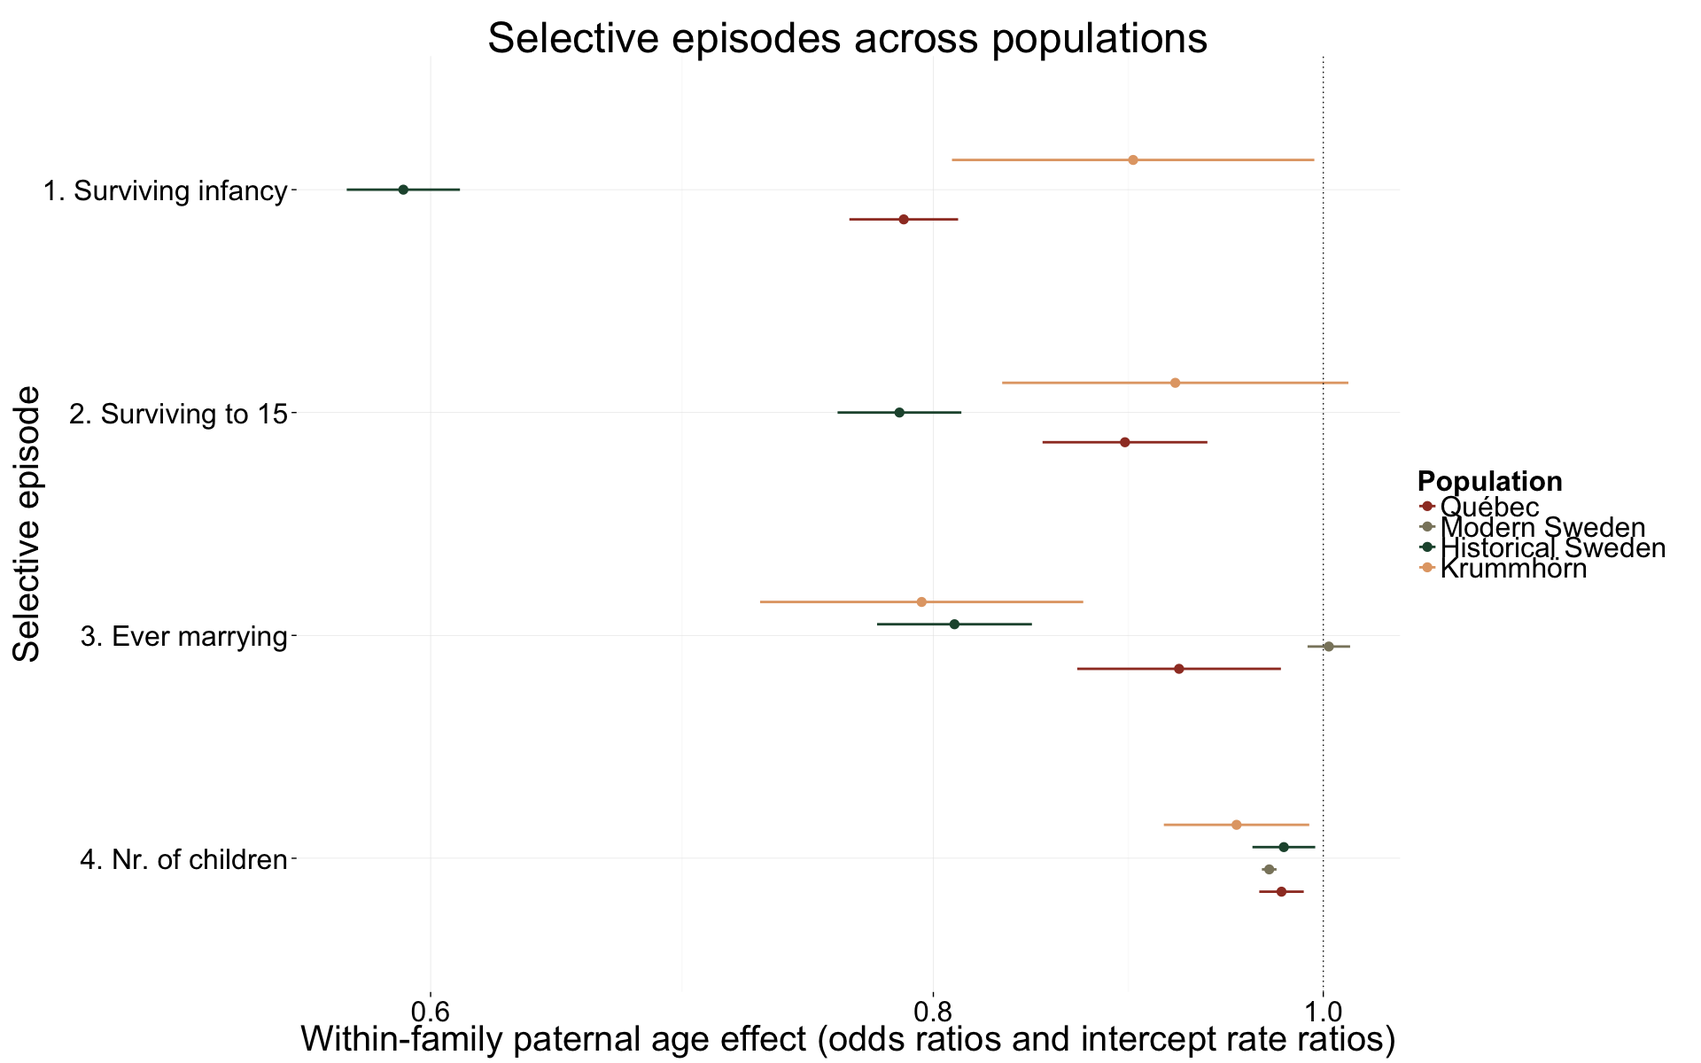
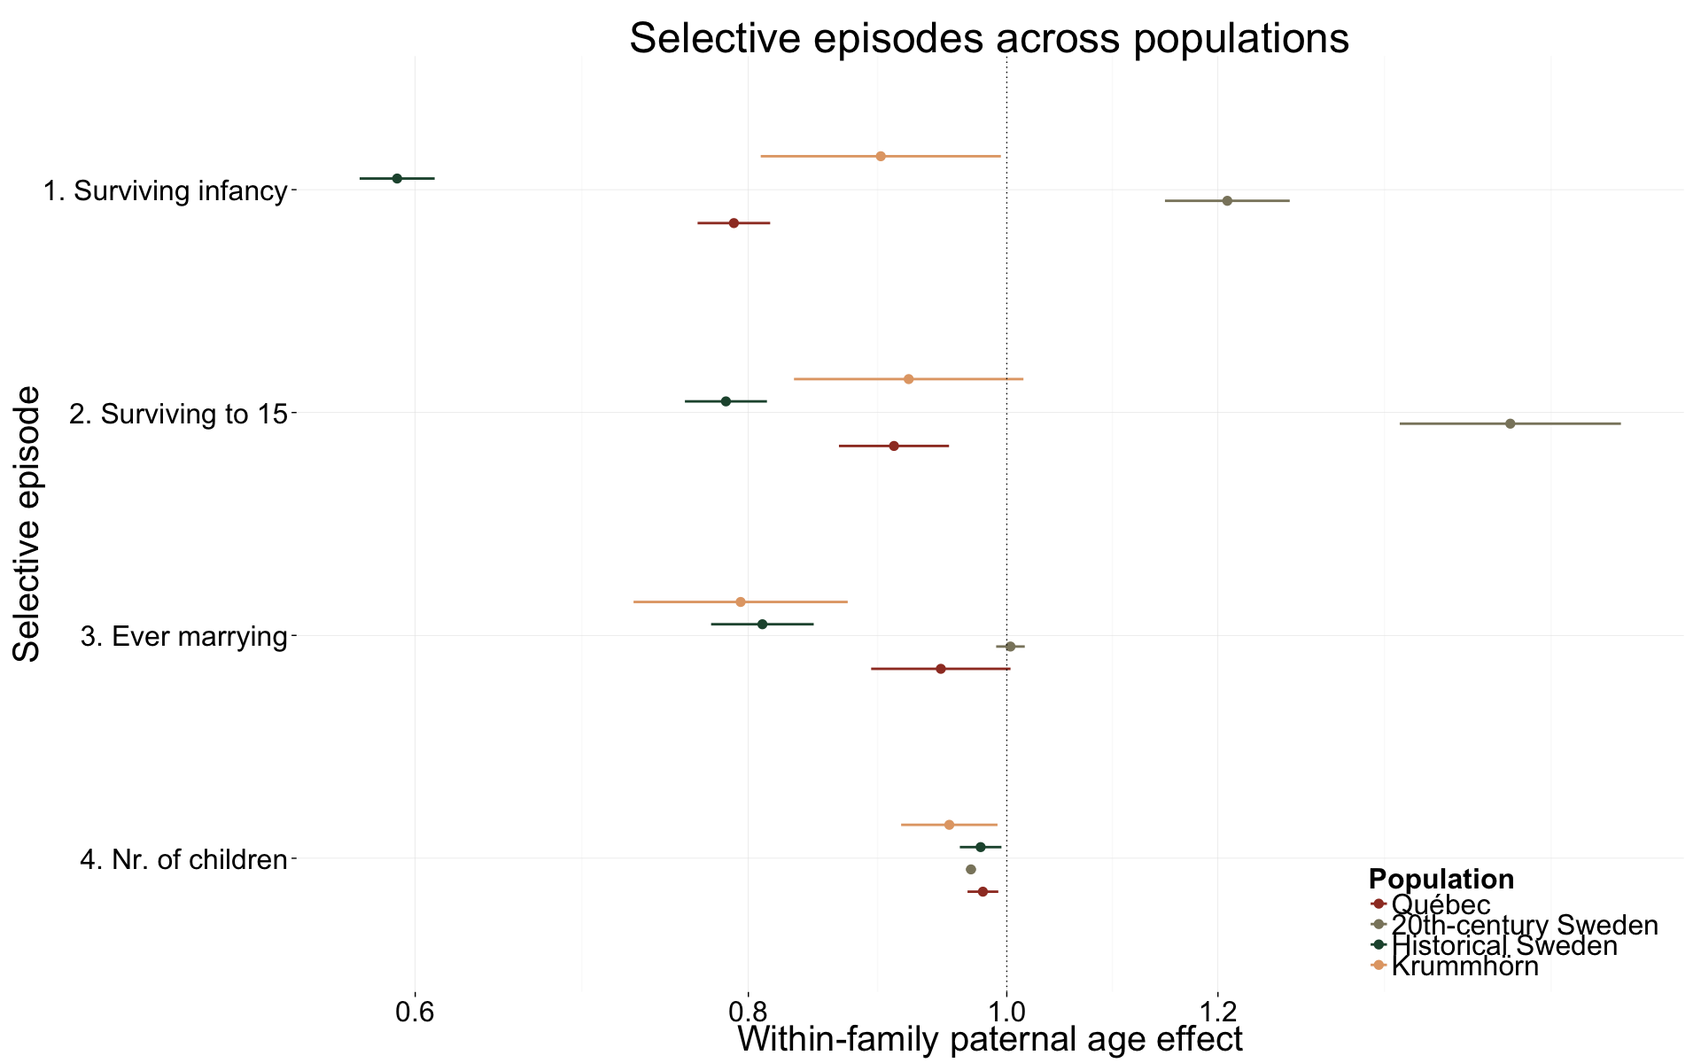
update comparison of linear episodes

diff --git a/4_compare_all_episodes_linear.html b/4_compare_all_episodes_linear.html
@@ -96,18 +96,17 @@ opts_chunk$<span class="kw">set</span>(<span class="dt">warning=</span><span cla
 <div id="all-episodes-few-controls" class="section level2">
 <h2>All episodes (few controls)</h2>
 <p>We control for birth.cohort (birth years in five equally large bins), male sex and region.</p>
-<p>We load the coefficients estimated in the sibling comparisons with extensive controls for the Krummhörn, Québec, historical and modern Sweden and compare them.</p>
+<p>We load the coefficients estimated in the sibling comparisons with extensive controls for the Krummhörn, Québec, historical and 20th-century Sweden and compare them.</p>
 <pre class="sourceCode r"><code class="sourceCode r">krmh_coefs =<span class="st"> </span><span class="kw">rbindlist</span>(<span class="kw">lapply</span>(<span class="kw">local</span>({<span class="kw">load</span>(<span class="st">&quot;coefs/krmh_main_effects_coefs.rdata&quot;</span>);<span class="kw">environment</span>()}),<span class="dt">FUN=</span>data.table))
 rpqa_coefs =<span class="st"> </span><span class="kw">rbindlist</span>(<span class="kw">lapply</span>(<span class="kw">local</span>({<span class="kw">load</span>(<span class="st">&quot;coefs/rpqa_main_effects_coefs.rdata&quot;</span>);<span class="kw">environment</span>()}),<span class="dt">FUN=</span>data.table))
 ddb_coefs =<span class="st"> </span><span class="kw">rbindlist</span>(<span class="kw">lapply</span>(<span class="kw">local</span>({<span class="kw">load</span>(<span class="st">&quot;coefs/ddb_main_effects_coefs.rdata&quot;</span>);<span class="kw">environment</span>()}),<span class="dt">FUN=</span>data.table))
 swed_coefs =<span class="st"> </span><span class="kw">rbindlist</span>(<span class="kw">lapply</span>(<span class="kw">local</span>({<span class="kw">load</span>(<span class="st">&quot;coefs/swed_main_effects_coefs.rdata&quot;</span>);<span class="kw">rm</span>(Children_all_coefs);<span class="kw">environment</span>()}),<span class="dt">FUN=</span>data.table))
 
-
 coefs =<span class="st"> </span><span class="kw">merge_coefs</span>(
     Krummhö<span class="dt">rn =</span> (krmh_coefs), 
     Qué<span class="dt">bec =</span> (rpqa_coefs), 
     <span class="st">`</span><span class="dt">Historical Sweden</span><span class="st">`</span> =<span class="st"> </span>(ddb_coefs),
-    <span class="st">`</span><span class="dt">Modern Sweden</span><span class="st">`</span> =<span class="st"> </span>(swed_coefs)
+    <span class="st">`</span><span class="dt">20th-century Sweden</span><span class="st">`</span> =<span class="st"> </span>(swed_coefs)
 )
 coefs[, Outcome :<span class="er">=</span><span class="st"> </span>car::<span class="kw">Recode</span>(Outcome, <span class="st">&quot;</span>
 <span class="st">    &#39;survive1y&#39;=&#39;1. Surviving infancy&#39;;</span>
@@ -118,17 +117,19 @@ coefs[, Outcome :<span class="er">=</span><span class="st"> </span>car::<span cl
 <span class="st">    &quot;</span>)]
 coefs[, Outcome :<span class="er">=</span><span class="st"> </span><span class="kw">factor</span>(Outcome, <span class="dt">levels =</span> <span class="kw">rev</span>(<span class="kw">sort</span>(<span class="kw">unique</span>(coefs$Outcome))))]
 
-coefs$Population =<span class="st"> </span><span class="kw">factor</span>(coefs$Population, <span class="kw">c</span>(<span class="st">&quot;Québec&quot;</span>,<span class="st">&quot;Modern Sweden&quot;</span>,<span class="st">&quot;Historical Sweden&quot;</span>,<span class="st">&quot;Krummhörn&quot;</span>))
+coefs$Population =<span class="st"> </span><span class="kw">factor</span>(coefs$Population, <span class="kw">c</span>(<span class="st">&quot;Québec&quot;</span>,<span class="st">&quot;20th-century Sweden&quot;</span>,<span class="st">&quot;Historical Sweden&quot;</span>,<span class="st">&quot;Krummhörn&quot;</span>))
 selective_episodes_comp =<span class="st"> </span><span class="kw">ggplot</span>(coefs[Coefficient ==<span class="st"> &quot;paternalage.diff&quot;</span> &amp;<span class="st"> </span>!<span class="kw">is.na</span>(Outcome),], 
                  <span class="kw">aes</span>(<span class="dt">colour =</span> Population, <span class="dt">x =</span> Outcome, <span class="dt">y =</span> Estimate, <span class="dt">ymin =</span> Lower, <span class="dt">ymax =</span> Upper, <span class="dt">group =</span> Population)) +
 <span class="st">        </span><span class="kw">coord_flip</span>() +
 <span class="st">        </span><span class="kw">scale_x_discrete</span>(<span class="st">&quot;Selective episode&quot;</span>) +
-<span class="st">        </span><span class="kw">scale_y_log10</span>(<span class="st">&quot;Within-family paternal age effect (odds ratios and intercept rate ratios)&quot;</span>, <span class="dt">breaks =</span> <span class="kw">c</span>(<span class="fl">0.4</span>,<span class="fl">0.6</span>,<span class="fl">0.8</span>,<span class="dv">1</span>,<span class="fl">1.2</span>))+
+<span class="st">        </span><span class="kw">scale_y_log10</span>(<span class="st">&quot;Within-family paternal age effect&quot;</span>, <span class="dt">breaks =</span> <span class="kw">c</span>(<span class="fl">0.4</span>,<span class="fl">0.6</span>,<span class="fl">0.8</span>,<span class="dv">1</span>,<span class="fl">1.2</span>))+
 <span class="st">        </span><span class="kw">geom_pointrange</span>(<span class="dt">position =</span> <span class="kw">position_dodge</span>(<span class="dt">width =</span> <span class="fl">0.4</span>), <span class="dt">size =</span> <span class="dv">1</span>) +
 <span class="st">        </span>pop_fill +
 <span class="st">        </span>pop_colour +
 <span class="st">        </span><span class="kw">geom_hline</span>(<span class="dt">y =</span> <span class="dv">1</span>, <span class="dt">colour =</span> <span class="st">&quot;black&quot;</span>, <span class="dt">linetype =</span> <span class="st">&quot;dotted&quot;</span>) +<span class="st"> </span>
 <span class="st">        </span>analysis_theme +
+<span class="st">        </span><span class="kw">theme</span>(<span class="dt">legend.position =</span> <span class="kw">c</span>(<span class="dv">1</span>,<span class="dv">0</span>),
+                <span class="dt">legend.justification =</span> <span class="kw">c</span>(<span class="dv">1</span>,<span class="dv">0</span>)) +
 <span class="st">        </span><span class="kw">ggtitle</span>(<span class="st">&quot;Selective episodes across populations&quot;</span>)
 selective_episodes_comp</code></pre>
 <p><img src="4_compare_all_episodes_linear_files/figure-html/few-1.png" title="" alt="" width="1440px" height="900px" /></p>
@@ -136,17 +137,17 @@ selective_episodes_comp</code></pre>
 <div id="all-episodes-many-controls" class="section level2">
 <h2>All episodes (many controls)</h2>
 <p>We control for birth.cohort (birth years in five equally large bins), male sex and region.<br />Additionally, we control for paternal and maternal loss (whether either parent died within 5 years of the birth), for maternal age (bins of 14-20, 20-35 and 35-50), and the total number of siblings (constant for all siblings).</p>
-<p>We load the coefficients estimated in the sibling comparisons with extensive controls for the Krummhörn, Québec, historical and modern Sweden and compare them.</p>
+<p>We load the coefficients estimated in the sibling comparisons with extensive controls for the Krummhörn, Québec, historical and 20th-century Sweden and compare them.</p>
 <pre class="sourceCode r"><code class="sourceCode r">krmh_coefs_ctrl =<span class="st"> </span><span class="kw">rbindlist</span>(<span class="kw">lapply</span>(<span class="kw">local</span>({<span class="kw">load</span>(<span class="st">&quot;coefs/krmh_main_controls_coefs.rdata&quot;</span>);<span class="kw">environment</span>()}),<span class="dt">FUN=</span>data.table))
 rpqa_coefs_ctrl =<span class="st"> </span><span class="kw">rbindlist</span>(<span class="kw">lapply</span>(<span class="kw">local</span>({<span class="kw">load</span>(<span class="st">&quot;coefs/rpqa_main_controls_coefs.rdata&quot;</span>);<span class="kw">environment</span>()}),<span class="dt">FUN=</span>data.table))
 ddb_coefs_ctrl =<span class="st"> </span><span class="kw">rbindlist</span>(<span class="kw">lapply</span>(<span class="kw">local</span>({<span class="kw">load</span>(<span class="st">&quot;coefs/ddb_main_controls_coefs.rdata&quot;</span>);<span class="kw">environment</span>()}),<span class="dt">FUN=</span>data.table))
-swed_coefs_ctrl =<span class="st"> </span><span class="kw">rbindlist</span>(<span class="kw">lapply</span>(<span class="kw">local</span>({<span class="kw">load</span>(<span class="st">&quot;coefs/swed_main_controls_coefs.rdata&quot;</span>);<span class="kw">rm</span>(Survive_reproductive_coefs,Children_all_coefs);<span class="kw">environment</span>()}),<span class="dt">FUN=</span>data.table))
+swed_coefs_ctrl =<span class="st"> </span><span class="kw">rbindlist</span>(<span class="kw">lapply</span>(<span class="kw">local</span>({<span class="kw">load</span>(<span class="st">&quot;coefs/swed_main_controls_coefs.rdata&quot;</span>);<span class="kw">rm</span>(Children_all_coefs);<span class="kw">environment</span>()}),<span class="dt">FUN=</span>data.table))
 
 coefs_ctrl =<span class="st"> </span><span class="kw">merge_coefs</span>(
     Krummhö<span class="dt">rn =</span> krmh_coefs_ctrl, 
     Qué<span class="dt">bec =</span> rpqa_coefs_ctrl, 
     <span class="st">`</span><span class="dt">Historical Sweden</span><span class="st">`</span> =<span class="st"> </span>ddb_coefs_ctrl,
-    <span class="st">`</span><span class="dt">Modern Sweden</span><span class="st">`</span> =<span class="st"> </span>swed_coefs_ctrl
+    <span class="st">`</span><span class="dt">20th-century Sweden</span><span class="st">`</span> =<span class="st"> </span>swed_coefs_ctrl
 )
 coefs_ctrl[, Outcome :<span class="er">=</span><span class="st"> </span>car::<span class="kw">Recode</span>(Outcome, <span class="st">&quot;</span>
 <span class="st">    &#39;survive1y&#39;=&#39;1. Surviving infancy&#39;;</span>
@@ -157,17 +158,19 @@ coefs_ctrl[, Outcome :<span class="er">=</span><span class="st"> </span>car::<sp
 <span class="st">    &quot;</span>)]
 coefs_ctrl[, Outcome :<span class="er">=</span><span class="st"> </span><span class="kw">factor</span>(Outcome, <span class="dt">levels =</span> <span class="kw">rev</span>(<span class="kw">sort</span>(<span class="kw">unique</span>(coefs_ctrl$Outcome))))]
 
-coefs_ctrl$Population =<span class="st"> </span><span class="kw">factor</span>(coefs_ctrl$Population, <span class="kw">c</span>(<span class="st">&quot;Québec&quot;</span>,<span class="st">&quot;Modern Sweden&quot;</span>,<span class="st">&quot;Historical Sweden&quot;</span>,<span class="st">&quot;Krummhörn&quot;</span>))
+coefs_ctrl$Population =<span class="st"> </span><span class="kw">factor</span>(coefs_ctrl$Population, <span class="kw">c</span>(<span class="st">&quot;Québec&quot;</span>,<span class="st">&quot;20th-century Sweden&quot;</span>,<span class="st">&quot;Historical Sweden&quot;</span>,<span class="st">&quot;Krummhörn&quot;</span>))
 selective_episodes_comp_ctrl =<span class="st"> </span><span class="kw">ggplot</span>(coefs_ctrl[Coefficient ==<span class="st"> &quot;paternalage.diff&quot;</span> &amp;<span class="st"> </span>!<span class="kw">is.na</span>(Outcome),], 
                  <span class="kw">aes</span>(<span class="dt">colour =</span> Population, <span class="dt">x =</span> Outcome, <span class="dt">y =</span> Estimate, <span class="dt">ymin =</span> Lower, <span class="dt">ymax =</span> Upper, <span class="dt">group =</span> Population)) +
 <span class="st">        </span><span class="kw">coord_flip</span>() +
 <span class="st">        </span><span class="kw">scale_x_discrete</span>(<span class="st">&quot;Selective episode&quot;</span>) +
-<span class="st">        </span><span class="kw">scale_y_log10</span>(<span class="st">&quot;Within-family paternal age effect (odds ratios and intercept rate ratios)&quot;</span>, <span class="dt">breaks =</span> <span class="kw">c</span>(<span class="fl">0.4</span>,<span class="fl">0.6</span>,<span class="fl">0.8</span>,<span class="dv">1</span>,<span class="fl">1.2</span>))+
+<span class="st">        </span><span class="kw">scale_y_log10</span>(<span class="st">&quot;Within-family paternal age effect&quot;</span>, <span class="dt">breaks =</span> <span class="kw">c</span>(<span class="fl">0.4</span>,<span class="fl">0.6</span>,<span class="fl">0.8</span>,<span class="dv">1</span>,<span class="fl">1.2</span>))+
 <span class="st">        </span><span class="kw">geom_pointrange</span>(<span class="dt">position =</span> <span class="kw">position_dodge</span>(<span class="dt">width =</span> <span class="fl">0.4</span>), <span class="dt">size =</span> <span class="dv">1</span>) +
 <span class="st">        </span>pop_fill +
 <span class="st">        </span>pop_colour +
 <span class="st">        </span><span class="kw">geom_hline</span>(<span class="dt">y =</span> <span class="dv">1</span>, <span class="dt">colour =</span> <span class="st">&quot;black&quot;</span>, <span class="dt">linetype =</span> <span class="st">&quot;dotted&quot;</span>) +<span class="st"> </span>
 <span class="st">        </span>analysis_theme +
+<span class="st">        </span><span class="kw">theme</span>(<span class="dt">legend.position =</span> <span class="kw">c</span>(<span class="dv">1</span>,<span class="dv">0</span>),
+            <span class="dt">legend.justification =</span> <span class="kw">c</span>(<span class="dv">1</span>,<span class="dv">0</span>)) +
 <span class="st">        </span><span class="kw">ggtitle</span>(<span class="st">&quot;Selective episodes across populations&quot;</span>)
 selective_episodes_comp_ctrl</code></pre>
 <p><img src="4_compare_all_episodes_linear_files/figure-html/many_cont-1.png" title="" alt="" width="1440px" height="900px" /></p>
@@ -181,12 +184,14 @@ selective_episodes_comp_uctrl_ctrl =<span class="st"> </span><span class="kw">gg
                  <span class="kw">aes</span>(<span class="dt">colour =</span> Population, <span class="dt">x =</span> Outcome, <span class="dt">y =</span> Estimate, <span class="dt">shape =</span> Controls, <span class="dt">linetype =</span> Controls, <span class="dt">ymin =</span> Lower, <span class="dt">ymax =</span> Upper, <span class="dt">group =</span> <span class="kw">interaction</span>(Controls,Population))) +
 <span class="st">        </span><span class="kw">coord_flip</span>() +
 <span class="st">        </span><span class="kw">scale_x_discrete</span>(<span class="st">&quot;Selective episode&quot;</span>) +
-<span class="st">        </span><span class="kw">scale_y_log10</span>(<span class="st">&quot;Within-family paternal age effect (odds ratios and intercept rate ratios)&quot;</span>, <span class="dt">breaks =</span> <span class="kw">c</span>(<span class="fl">0.4</span>,<span class="fl">0.6</span>,<span class="fl">0.8</span>,<span class="dv">1</span>,<span class="fl">1.2</span>))+
+<span class="st">        </span><span class="kw">scale_y_log10</span>(<span class="st">&quot;Within-family paternal age effect&quot;</span>, <span class="dt">breaks =</span> <span class="kw">c</span>(<span class="fl">0.4</span>,<span class="fl">0.6</span>,<span class="fl">0.8</span>,<span class="dv">1</span>,<span class="fl">1.2</span>))+
 <span class="st">        </span><span class="kw">geom_pointrange</span>(<span class="dt">position =</span> <span class="kw">position_dodge</span>(<span class="dt">width =</span> <span class="fl">0.4</span>), <span class="dt">size =</span> <span class="dv">1</span>) +
 <span class="st">        </span>pop_fill +
 <span class="st">        </span>pop_colour +
 <span class="st">        </span><span class="kw">geom_hline</span>(<span class="dt">y =</span> <span class="dv">1</span>, <span class="dt">colour =</span> <span class="st">&quot;black&quot;</span>, <span class="dt">linetype =</span> <span class="st">&quot;dotted&quot;</span>) +<span class="st"> </span>
 <span class="st">        </span>analysis_theme +
+<span class="st">        </span><span class="kw">theme</span>(<span class="dt">legend.position =</span> <span class="kw">c</span>(<span class="dv">1</span>,<span class="dv">0</span>),
+                <span class="dt">legend.justification =</span> <span class="kw">c</span>(<span class="dv">1</span>,<span class="dv">0</span>)) +
 <span class="st">        </span><span class="kw">ggtitle</span>(<span class="st">&quot;Selective episodes across populations&quot;</span>)
 selective_episodes_comp_uctrl_ctrl </code></pre>
 <p><img src="4_compare_all_episodes_linear_files/figure-html/crtl_uctrl-1.png" title="" alt="" width="1440px" height="900px" /></p>
@@ -202,7 +207,7 @@ coefs_op =<span class="st"> </span><span class="kw">merge_coefs</span>(
     Krummhö<span class="dt">rn =</span> krmh_coefs_op, 
     Qué<span class="dt">bec =</span> rpqa_coefs_op, 
     <span class="st">`</span><span class="dt">Historical Sweden</span><span class="st">`</span> =<span class="st"> </span>ddb_coefs_op,
-    <span class="st">`</span><span class="dt">Modern Sweden</span><span class="st">`</span> =<span class="st"> </span>swed_coefs_op
+    <span class="st">`</span><span class="dt">20th-century Sweden</span><span class="st">`</span> =<span class="st"> </span>swed_coefs_op
 )
 coefs_op2 =<span class="st"> </span>coefs_op %&gt;%<span class="st"> </span><span class="kw">setDF</span>() %&gt;%
 <span class="st">    </span><span class="kw">melt</span>(<span class="dt">id=</span><span class="kw">c</span>(<span class="st">&quot;Population&quot;</span>,<span class="st">&quot;byear&quot;</span>,<span class="st">&quot;birth.decade&quot;</span>)) %&gt;%<span class="st"> </span>
@@ -220,7 +225,7 @@ coefs_op2 =<span class="st"> </span>coefs_op %&gt;%<span class="st"> </span><spa
 <span class="st">    &#39;0. Any children&#39;=NA;</span>
 <span class="st">    &#39;0. Any surviving children&#39;=NA</span>
 <span class="st">    &quot;</span>),
-    <span class="dt">Population =</span> <span class="kw">factor</span>(Population, <span class="kw">c</span>(<span class="st">&quot;Québec&quot;</span>,<span class="st">&quot;Modern Sweden&quot;</span>,<span class="st">&quot;Historical Sweden&quot;</span>,<span class="st">&quot;Krummhörn&quot;</span>))
+    <span class="dt">Population =</span> <span class="kw">factor</span>(Population, <span class="kw">c</span>(<span class="st">&quot;Québec&quot;</span>,<span class="st">&quot;20th-century Sweden&quot;</span>,<span class="st">&quot;Historical Sweden&quot;</span>,<span class="st">&quot;Krummhörn&quot;</span>))
     )
 coefs_op2$variable =<span class="st"> </span><span class="kw">factor</span>(coefs_op2$variable, <span class="dt">levels =</span> <span class="kw">rev</span>(<span class="kw">sort</span>(<span class="kw">unique</span>(coefs_op2$variable))))
 
@@ -234,6 +239,8 @@ selective_episodes_opportunity =<span class="st"> </span><span class="kw">ggplot
 <span class="st">        </span>pop_fill +
 <span class="st">        </span>pop_colour +
 <span class="st">        </span>analysis_theme +
+<span class="st">        </span><span class="kw">theme</span>(<span class="dt">legend.position =</span> <span class="kw">c</span>(<span class="dv">1</span>,<span class="dv">0</span>),
+            <span class="dt">legend.justification =</span> <span class="kw">c</span>(<span class="dv">1</span>,<span class="dv">0</span>)) +
 <span class="st">        </span><span class="kw">ggtitle</span>(<span class="st">&quot;Opportunity for selection across populations&quot;</span>)
 selective_episodes_opportunity</code></pre>
 <p><img src="4_compare_all_episodes_linear_files/figure-html/unnamed-chunk-1-1.png" title="" alt="" width="1440px" height="900px" /></p>
@@ -244,9 +251,9 @@ selective_episodes_opportunity</code></pre>
 <div id="session-info" class="section level4">
 <h4>Session Info</h4>
 <pre class="sourceCode r"><code class="sourceCode r"><span class="kw">sessionInfo</span>()</code></pre>
-<pre><code>## R version 3.1.3 (2015-03-09)
+<pre><code>## R version 3.2.0 (2015-04-16)
 ## Platform: x86_64-apple-darwin13.4.0 (64-bit)
-## Running under: OS X 10.10.2 (Yosemite)
+## Running under: OS X 10.10.5 (Yosemite)
 ## 
 ## locale:
 ## [1] en_US.UTF-8/en_US.UTF-8/en_US.UTF-8/C/en_US.UTF-8/en_US.UTF-8
@@ -256,28 +263,29 @@ selective_episodes_opportunity</code></pre>
 ## [8] base     
 ## 
 ## other attached packages:
-##  [1] mgcv_1.8-6       nlme_3.1-120     Hmisc_3.15-0     Formula_1.2-1   
-##  [5] survival_2.38-1  lattice_0.20-31  reshape2_1.4.1   lubridate_1.3.3 
-##  [9] car_2.0-25       stringi_0.4-1    dplyr_0.4.1      pander_0.5.2    
-## [13] knitr_1.9        rmarkdown_0.5.1  plyr_1.8.1       ggplot2_1.0.1   
-## [17] formr_0.1.15     data.table_1.9.5 stringr_0.6.2    devtools_1.7.0  
+##  [1] stringi_1.0-1    rmarkdown_0.7    coda_0.17-1      Hmisc_3.17-0    
+##  [5] Formula_1.2-1    survival_2.38-1  lattice_0.20-31  dplyr_0.4.1     
+##  [9] boot_1.3-16      lme4_1.1-7       Rcpp_0.12.1      Matrix_1.2-1    
+## [13] pander_0.5.2     knitr_1.10.5     plyr_1.8.3       ggplot2_1.0.1   
+## [17] formr_0.2.9      data.table_1.9.6 stringr_1.0.0    devtools_1.8.0  
 ## 
 ## loaded via a namespace (and not attached):
-##  [1] acepack_1.3-3.3     assertthat_0.1      chron_2.3-45       
-##  [4] cluster_2.0.1       colorspace_1.2-6    DBI_0.3.1          
-##  [7] digest_0.6.8        evaluate_0.6        foreign_0.8-63     
-## [10] formatR_1.1         gtable_0.1.2        htmltools_0.2.6    
-## [13] labeling_0.3        latticeExtra_0.6-26 lazyeval_0.1.10    
-## [16] lme4_1.1-7          magrittr_1.5        MASS_7.3-40        
-## [19] Matrix_1.2-0        memoise_0.2.1       minqa_1.2.4        
-## [22] mnormt_1.5-2        munsell_0.4.2       nloptr_1.0.4       
-## [25] nnet_7.3-9          parallel_3.1.3      pbkrtest_0.4-2     
-## [28] proto_0.3-10        psych_1.5.1         quantreg_5.11      
-## [31] RColorBrewer_1.1-2  Rcpp_0.11.5         rpart_4.1-9        
-## [34] scales_0.2.4        SparseM_1.6         splines_3.1.3      
-## [37] tools_3.1.3</code></pre>
+##  [1] reshape2_1.4.1      splines_3.2.0       colorspace_1.2-6   
+##  [4] htmltools_0.2.6     mgcv_1.8-6          chron_2.3-47       
+##  [7] nloptr_1.0.4        foreign_0.8-63      DBI_0.3.1          
+## [10] RColorBrewer_1.1-2  munsell_0.4.2       gtable_0.1.2       
+## [13] memoise_0.2.1       evaluate_0.8        labeling_0.3       
+## [16] latticeExtra_0.6-26 SparseM_1.6         quantreg_5.11      
+## [19] pbkrtest_0.4-2      parallel_3.2.0      curl_0.9.3         
+## [22] highr_0.5.1         proto_0.3-10        acepack_1.3-3.3    
+## [25] scales_0.3.0        formatR_1.2.1       rversions_1.0.1    
+## [28] gridExtra_2.0.0     digest_0.6.8        tools_3.2.0        
+## [31] magrittr_1.5        lazyeval_0.1.10     cluster_2.0.1      
+## [34] car_2.0-25          MASS_7.3-40         xml2_0.1.1         
+## [37] assertthat_0.1      minqa_1.2.4         rpart_4.1-9        
+## [40] nnet_7.3-9          nlme_3.1-120        git2r_0.10.1</code></pre>
 <pre class="sourceCode r"><code class="sourceCode r"><span class="kw">date</span>()</code></pre>
-<pre><code>## [1] &quot;Sat May  9 14:40:38 2015&quot;</code></pre>
+<pre><code>## [1] &quot;Wed Dec  2 14:19:33 2015&quot;</code></pre>
 </div>
 </div>
 
